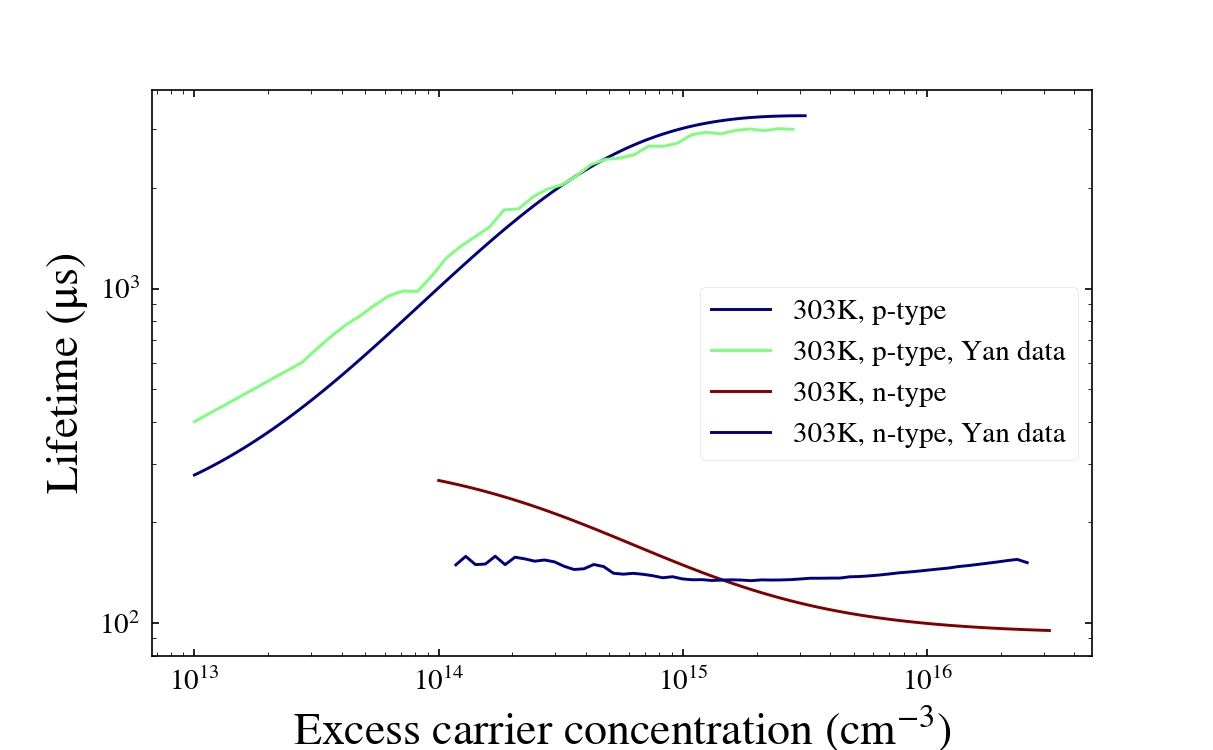
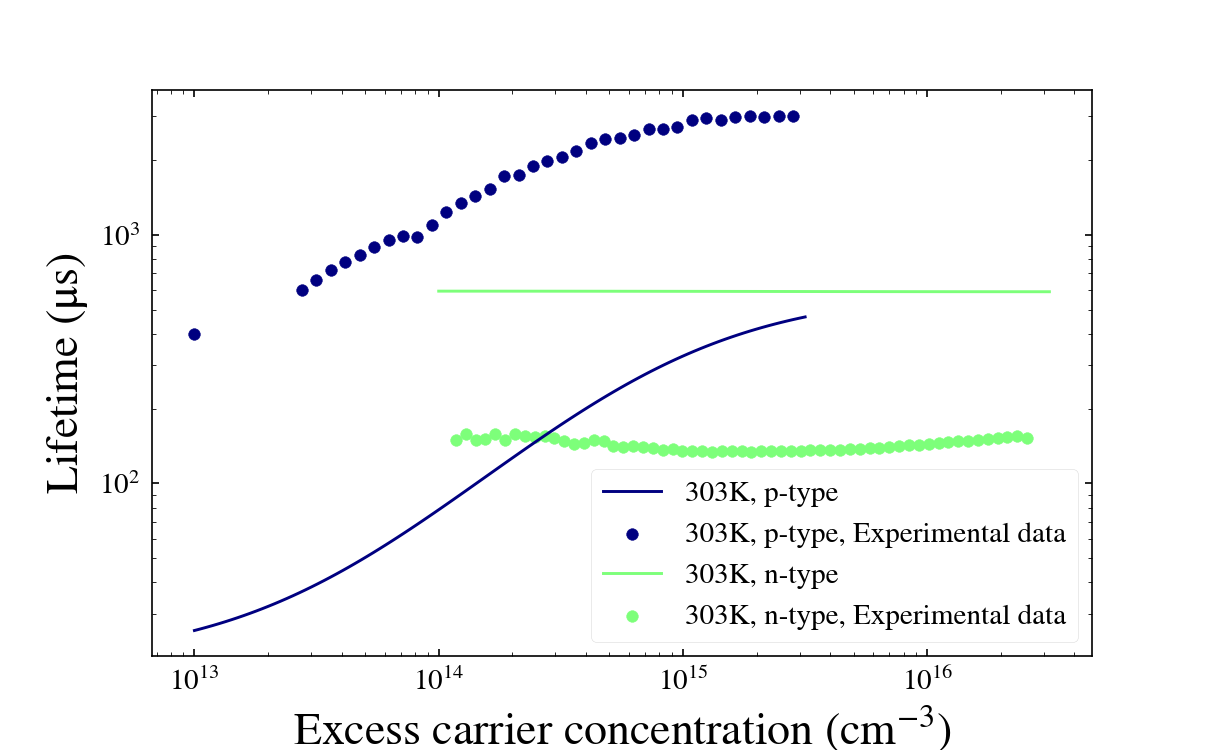
s

diff --git a/simulation/two_level_simulator_object.py b/simulation/two_level_simulator_object.py
@@ -563,6 +563,12 @@ class two_level_lifetime_generator():
         #  Define experiment: every time remember to run this line to refresh the code.
         self.exp = Experiment(SaveDir=self.SAVEDIR, Parameters=self.PARAMETERS)
 
+        # define the parameters for BO
+        self.S_p_1 = 1e-16
+        self.S_p_2 = 1e-16
+        self.k_1 = 12711
+        self.k_2 = 1.184
+        
         # update the parameters to match with BO measurement
         self.PARAM={
         # 'type': self.WAFERTYPE,                #   Wafer doping type
@@ -579,19 +585,19 @@ class two_level_lifetime_generator():
         # 'S_max_2_p':1E-13,              #   Maximum capture cross section for hole.
         # 'S_max_2_n':1E-13,              # maximum capcture cross section for electron.
         # the parameter to simulate BO:
-        'Et_min_1':0.15,             #   Minimum defect energy level
-        'Et_max_1':0.15,              #   Maximum defect energy level
-        'Et_min_2':-0.3,             #   Minimum defect energy level
-        'Et_max_2':-0.3,              #   Maximum defect energy level
-        'S_min_1_p':1e-14/18,              #   Minimum capture cross section for hole.
-        'S_min_1_n':1e-14,          #   Minimum capture cross section for electron.
-        'S_max_1_p':1e-14/18,              #   Maximum capture cross section for hole.
-        'S_max_1_n':1e-14,              # maximum capcture cross section for electron.
-        'S_min_2_p':1e-14/103.2*86,              #   Minimum capture cross section for hole.
-        'S_min_2_n':1e-14/103.2,          #   Minimum capture cross section for electron.
-        'S_max_2_p':1e-14/103.2*86,              #   Maximum capture cross section for hole.
-        'S_max_2_n':1E-14/103.2,              # maximum capcture cross section for electron.
-        'Nt':5E10,                  #   Defect density
+        'Et_min_1':-0.453,             #   Minimum defect energy level
+        'Et_max_1':-0.453,              #   Maximum defect energy level
+        'Et_min_2':0.306,             #   Minimum defect energy level
+        'Et_max_2':0.306,              #   Maximum defect energy level
+        'S_min_1_p':self.S_p_1,              #   Minimum capture cross section for hole.
+        'S_min_1_n':self.S_p_1*self.k_1,          #   Minimum capture cross section for electron.
+        'S_max_1_p':self.S_p_1,              #   Maximum capture cross section for hole.
+        'S_max_1_n':self.S_p_1*self.k_1,              # maximum capcture cross section for electron.
+        'S_min_2_p':self.S_p_2,              #   Minimum capture cross section for hole.
+        'S_min_2_n':self.S_p_2*self.k_2,          #   Minimum capture cross section for electron.
+        'S_max_2_p':self.S_p_2,              #   Maximum capture cross section for hole.
+        'S_max_2_n':self.S_p_2*self.k_2,              # maximum capcture cross section for electron.
+        'Nt':1e12,                  #   Defect density
         'check_auger': False,     #   Check wether to resample if lifetime is auger-limited
         'noise':'',             #   Enable noiseparam
         'noiseparam':0,         #   Adds noise proportional to the log of Delta n
@@ -601,8 +607,8 @@ class two_level_lifetime_generator():
         # update the wafer type
         self.WAFERTYPE = 'p'
         self.PARAM['type'] = self.WAFERTYPE
-        # update the defect density
-        self.PARAM['Nt'] = 3e10
+        # update the defect density data
+        self.PARAM['Nt'] = 1e12
         # update the excess carrier concentration
         self.PARAMETERS['dn_range'] = np.logspace(13,15.5,100)
         # simulate the data
@@ -616,8 +622,6 @@ class two_level_lifetime_generator():
         # update the wafer type
         self.WAFERTYPE = 'n'
         self.PARAM['type'] = self.WAFERTYPE
-        # update the defect density
-        self.PARAM['Nt'] = 2E12
         # update the excess carrier concentration
         self.PARAMETERS['dn_range'] = np.logspace(14,16.5,100)
         # simulate the data
@@ -627,12 +631,10 @@ class two_level_lifetime_generator():
         dataDf_n_343['Label']=[0 if mode=="Two one-level" else 1 for mode in dataDf_n_343['Mode']]
 
 
-         # Simualate datasets: for n type 303K and excess carrier concentration from 1e14 to 3e16
+        # Simualate datasets: for n type 303K and excess carrier concentration from 1e14 to 3e16
         # update the wafer type
         self.WAFERTYPE = 'n'
         self.PARAM['type'] = self.WAFERTYPE
-        # update the defect density
-        self.PARAM['Nt'] = 1E12
         # update the excess carrier concentration
         self.PARAMETERS['dn_range'] = np.logspace(14,16.5,100)
         # simulate the data
@@ -683,7 +685,7 @@ class two_level_lifetime_generator():
             # plot the p type 303K: 1e6 is to convert from s to us
             plt.plot(np.logspace(13, 15.5, 100), lifetimes[0, :]*1e6, label='303K, p-type')
             # plot with Yan data
-            plt.plot(self.dn_p_303_8_5e14, self.tau_p_303_8_5e14*1e6, label='303K, p-type, Yan data')
+            plt.plot(self.dn_p_303_8_5e14, self.tau_p_303_8_5e14*1e6, label='303K, p-type, Experimental data')
             # plot the p type 343K: 1e6 is to convert from s to us
             plt.plot(np.logspace(14, 16.5, 100), lifetimes[1, :]*1e6, label='343K, n-type')
             plt.plot(self.dn_p_343_2e15, self.tau_p_343_2e15*1e6, label='343K, n-type, Yan data')
@@ -739,13 +741,13 @@ class two_level_lifetime_generator():
             # plot the p type 303K: 1e6 is to convert from s to us
             plt.plot(np.logspace(13, 15.5, 100), lifetimes[0, :]*1e6, label='303K, p-type')
             # plot with Yan data
-            plt.plot(self.dn_p_303_8_5e14, self.tau_p_303_8_5e14*1e6, label='303K, p-type, Yan data')
+            plt.scatter(self.dn_p_303_8_5e14, self.tau_p_303_8_5e14*1e6, label='303K, p-type, Experimental data')
             # plot the p type 343K: 1e6 is to convert from s to us
             # plt.plot(np.logspace(14, 16.5, 100), lifetimes[1, :]*1e6, label='343K, n-type')
             # plt.plot(self.dn_p_343_2e15, self.tau_p_343_2e15*1e6, label='343K, n-type, Yan data')
             # plot the n type 303K: 1e6 is to convert from s to us
             plt.plot(np.logspace(14, 16.5, 100), lifetimes[1, :]*1e6, label='303K, n-type')
-            plt.plot(self.dn_n_303_2e15,self.tau_n_303_2e15*1e6, label='303K, n-type, Yan data')
+            plt.scatter(self.dn_n_303_2e15,self.tau_n_303_2e15*1e6, label='303K, n-type, Experimental data')
 
             plt.legend()
             plt.xlabel('Excess carrier concentration ' + '$(cm^{-3})$', fontsize=22)
@@ -901,7 +903,7 @@ class two_level_lifetime_generator():
             self.email_reminder()
 
 
-    def experimental_data_interpolator(self):
+    def experimental_data_interpolator(self, plot=False):
         '''
         Interpolates the experimental data measured by Yan into the same excess 
         carrier concentration as the simulated data
@@ -934,29 +936,28 @@ class two_level_lifetime_generator():
         self.dn_n_303_2e15_interpolated = new_dn_values_n_303_2e15
         self.tau_n_303_2e15_interpolated = interpolated_tau_values_n_303_2e15
 
-        # Plot
-        plt.figure(facecolor='white')
-        # p type 303K, 8.5e14
-        plt.plot(new_dn_values_p_303_8_5e14, interpolated_tau_values_p_303_8_5e14, label='p type 303K, 8.5e14')
-        plt.scatter(self.dn_p_303_8_5e14, self.tau_p_303_8_5e14, s=10)
-        
-        # p type 343K, 2e15
-        plt.plot(new_dn_values_p_343_2e15, interpolated_tau_values_p_343_2e15, label='p type 343K, 2e15')
-        plt.scatter(self.dn_p_343_2e15, self.tau_p_343_2e15, s=10)
-        
-        # n type 303K, 2e15
-        plt.plot(new_dn_values_n_303_2e15, interpolated_tau_values_n_303_2e15, label='n type 303K, 2e15')
-        plt.scatter(self.dn_n_303_2e15, self.tau_n_303_2e15, s=10)
-        
-        plt.legend()
-        plt.xlabel('Excess carrier concentration ' + '$(cm^{-3})$', fontsize=22)
-        plt.ylabel('Lifetime ' + '$(s)$', fontsize=22)
-        plt.xscale('log')
-        plt.yscale('log')
-        plt.title('Raw Lifetime Data', fontsize=22)
-        plt.show()
-
-        # now export the data the same format as the simulator
+        if plot:
+            # Plot
+            plt.figure(facecolor='white')
+            # p type 303K, 8.5e14
+            plt.plot(new_dn_values_p_303_8_5e14, interpolated_tau_values_p_303_8_5e14, label='p type 303K, 8.5e14')
+            plt.scatter(self.dn_p_303_8_5e14, self.tau_p_303_8_5e14, s=10)
+            
+            # p type 343K, 2e15
+            plt.plot(new_dn_values_p_343_2e15, interpolated_tau_values_p_343_2e15, label='p type 343K, 2e15')
+            plt.scatter(self.dn_p_343_2e15, self.tau_p_343_2e15, s=10)
+            
+            # n type 303K, 2e15
+            plt.plot(new_dn_values_n_303_2e15, interpolated_tau_values_n_303_2e15, label='n type 303K, 2e15')
+            plt.scatter(self.dn_n_303_2e15, self.tau_n_303_2e15, s=10)
+            
+            plt.legend()
+            plt.xlabel('Excess carrier concentration ' + '$(cm^{-3})$', fontsize=22)
+            plt.ylabel('Lifetime ' + '$(s)$', fontsize=22)
+            plt.xscale('log')
+            plt.yscale('log')
+            plt.title('Raw Lifetime Data', fontsize=22)
+            plt.show()
 
 
     def interpolate_data_exporter(self):
@@ -1077,6 +1078,120 @@ class two_level_lifetime_generator():
 
         # export the data
         self.exp.exportDataset()
+
+
+    def experimental_data_fit(self, sp1_resolution=10, sp2_resolutoin=10):
+        '''
+        Given that Et1=-0.453, Et2=0.306 ,k1=12711, ke=1.184, try to find out sp1 and sp2
+        '''
+        # interpolate the experimental data
+        self.experimental_data_interpolator()
+
+        # load interpolated lifetime data from the object.
+        p_303K = self.tau_p_303_8_5e14_interpolated
+        dn_p_303K = self.dn_p_303_8_5e14_interpolated
+        n_303K = self.tau_n_303_2e15_interpolated
+        dn_n_303K = self.dn_n_303_2e15_interpolated
+
+        # define hte simulatoin parameters:
+        # known parameters from Yan:
+        Et1 = -0.453
+        Et2 = 0.306
+        k1 = 12711
+        k2 = 1.184
+        # define the range for sp1 and sp2
+        sp1_range = np.logspace(-17, -13, sp1_resolution)
+        sp2_range = np.logspace(-17, -13, sp2_resolutoin)
+
+        # define into the object
+        self.PARAM['Et_min_1'] = Et1
+        self.PARAM['Et_max_1'] = Et1
+        self.PARAM['Et_min_2'] = Et2
+        self.PARAM['Et_max_2'] = Et2
+
+        # loop through sp1 and sp2 option.
+        sp1_opt = 0
+        sp2_opt = 0
+        loss_opt = 1e10
+        for sp1 in sp1_range:
+            for sp2 in sp2_range:
+                # update the capture cross sections
+                self.PARAM['S_min_1_p'] = sp1
+                self.PARAM['S_max_1_p'] = sp1
+                self.PARAM['S_min_2_p'] = sp2
+                self.PARAM['S_max_2_p'] = sp2
+                self.PARAM['S_min_1_n'] = sp1*k1
+                self.PARAM['S_max_1_n'] = sp1*k1
+                self.PARAM['S_min_2_n'] = sp2*k2
+                self.PARAM['S_max_2_n'] = sp2*k2
+
+                # simulate the BO lifeitme data: p 303K, 8.5e14.
+                self.WAFERTYPE = 'p'
+                self.PARAM['type'] = self.WAFERTYPE
+                # update the defect density data
+                self.PARAM['Nt'] = 1e12
+                # update the excess carrier concentration
+                self.PARAMETERS['dn_range'] = np.logspace(13,15.5,100)
+                # simulate the data
+                db_sah = DPML.generateDB_sah(self.PARAMETERS['n_defects'], [303], [8.5e14], np.logspace(13,15.5,100), self.PARAM) # one two-level defect data
+                db_sah['Mode']=['Single two-level']*len(db_sah)
+                dataDf_p_303 = db_sah
+                dataDf_p_303['Label']=[0 if mode=="Two one-level" else 1 for mode in dataDf_p_303['Mode']]
+                # extract the lifetime data from the first row: whose colunm title starts with a number:
+                select_X_list = []
+                for string in dataDf_p_303.columns.tolist():
+                    if string[0].isdigit():
+                        select_X_list.append(string)
+                # replace the ones with titles into pure lifetime
+                dataDf_p_303 = dataDf_p_303[select_X_list]
+
+                # Simualate datasets: for n type 303K and excess carrier concentration from 1e14 to 3e16
+                # update the wafer type
+                self.WAFERTYPE = 'n'
+                self.PARAM['type'] = self.WAFERTYPE
+                # update the excess carrier concentration
+                self.PARAMETERS['dn_range'] = np.logspace(14,16.5,100)
+                # simulate the data
+                db_sah=DPML.generateDB_sah(self.PARAMETERS['n_defects'], [303], [2e15], np.logspace(14,16.5,100), self.PARAM) # one two-level defect data
+                db_sah['Mode']=['Single two-level']*len(db_sah)
+                dataDf_n_303=db_sah
+                dataDf_n_303['Label']=[0 if mode=="Two one-level" else 1 for mode in dataDf_n_303['Mode']]
+                # replace the ones with titles into pure lifetime
+                select_X_list = []
+                for string in dataDf_n_303.columns.tolist():
+                    if string[0].isdigit():
+                        select_X_list.append(string)
+                # replace the ones with titles into pure lifetime
+                dataDf_n_303 = dataDf_n_303[select_X_list]
+
+                # calculate the loss function
+                curve_dist_p = np.sum(np.sum((dataDf_p_303-p_303K)*(dataDf_p_303-p_303K)/p_303K/p_303K))
+                curve_dist_n = np.sum(np.sum((dataDf_n_303-n_303K)*(dataDf_n_303-n_303K)/n_303K/n_303K))
+                loss = np.sum(curve_dist_p + curve_dist_n)
+
+                # update the optimal parameters
+                if loss < loss_opt:
+                    loss_opt = loss
+                    sp1_opt = sp1
+                    sp2_opt = sp2
+
+                # print out the progress
+                print('Finish checking ' + str(sp1) + ' ' + str(sp2) + ' loss is ' + str(loss_opt)) 
+
+        # return hte optimal sp1 sp2
+        print('Optimal sp1 is ' + str(sp1_opt))
+        print('Optimal sp2 is ' + str(sp2_opt))
+        print('Optimal loss is ' + str(loss_opt))
+
+        # visualization.
+        plt.figure(facecolor='white')
+        plt.xscale('log')
+        plt.yscale('log')
+        plt.scatter(self.dn_p_303_8_5e14, self.tau_p_303_8_5e14, label='p 303K, 8.5e14 experiment')
+        plt.plot(dn_p_303K, dataDf_p_303.iloc[0, :], label='p 303K, 8.5e14 simulation')
+        plt.scatter(self.dn_n_303_2e15, self.tau_n_303_2e15, label='n 303K, 2e15 experiment')
+        plt.plot(dn_n_303K ,dataDf_n_303.iloc[0, :], label='n 303K, 2e15 simulation')
+        plt.show()
 
 
     def email_reminder(self):

diff --git a/simulation/two_level_simulator_use_object.py b/simulation/two_level_simulator_use_object.py
@@ -90,5 +90,15 @@ simulator.PARAMETERS['n_defects'] = 1
 simulator.SAVEDIR = r"D:\study\thesis_data_storage\journal\defect_classification\basic_model\testing_data"
 # simualte the data
 simulator.interpolate_data_exporter()
+
+# %% find the sp1 and sp2
+# %% Simulate the Yan BO lifetime
+simulator = two_level_lifetime_generator()
+# define the number of defect to simulate
+simulator.PARAMETERS['n_defects'] = 1
+# update the save directory
+simulator.SAVEDIR = r"D:\study\thesis_data_storage\journal\defect_classification\basic_model\testing_data"
+# simualte the data
+simulator.experimental_data_fit(sp1_resolution=5, sp2_resolutoin=5)
 # %%
 simulator.email_reminder()
